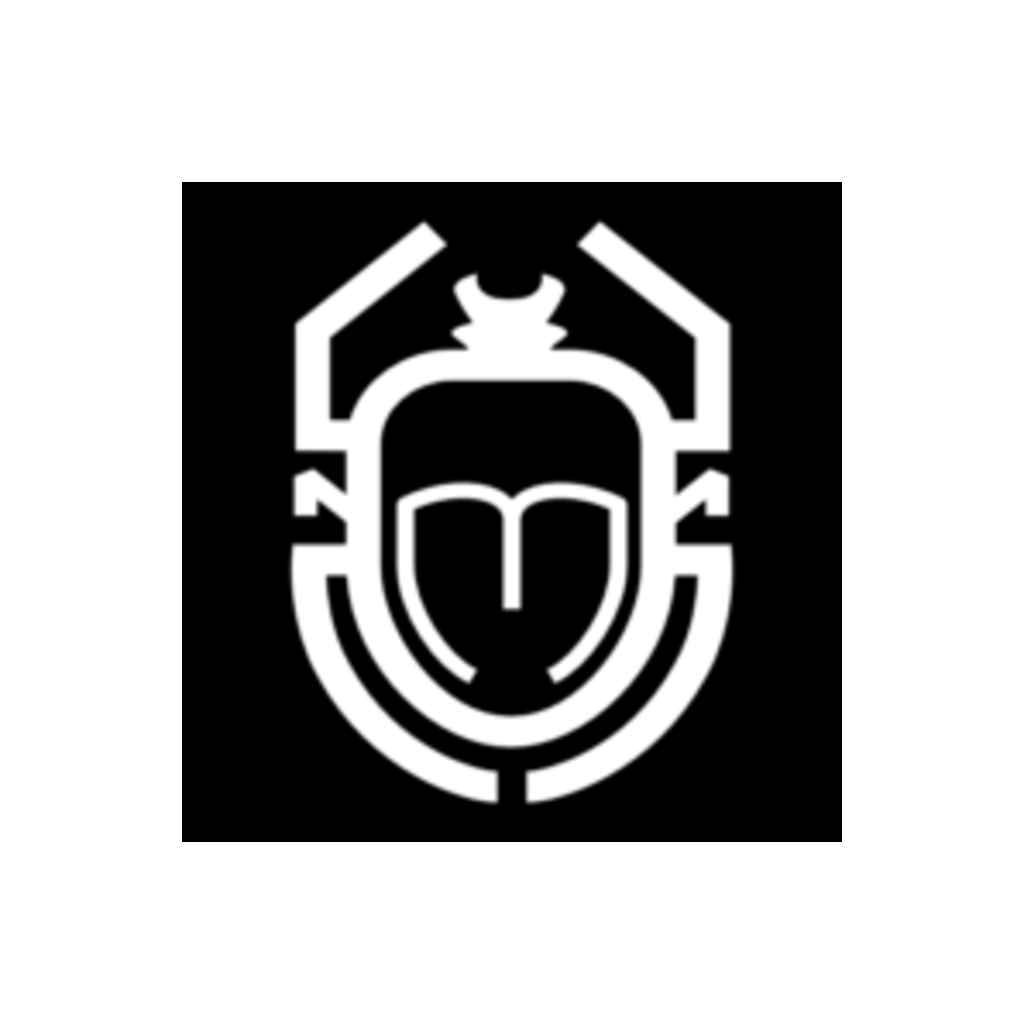
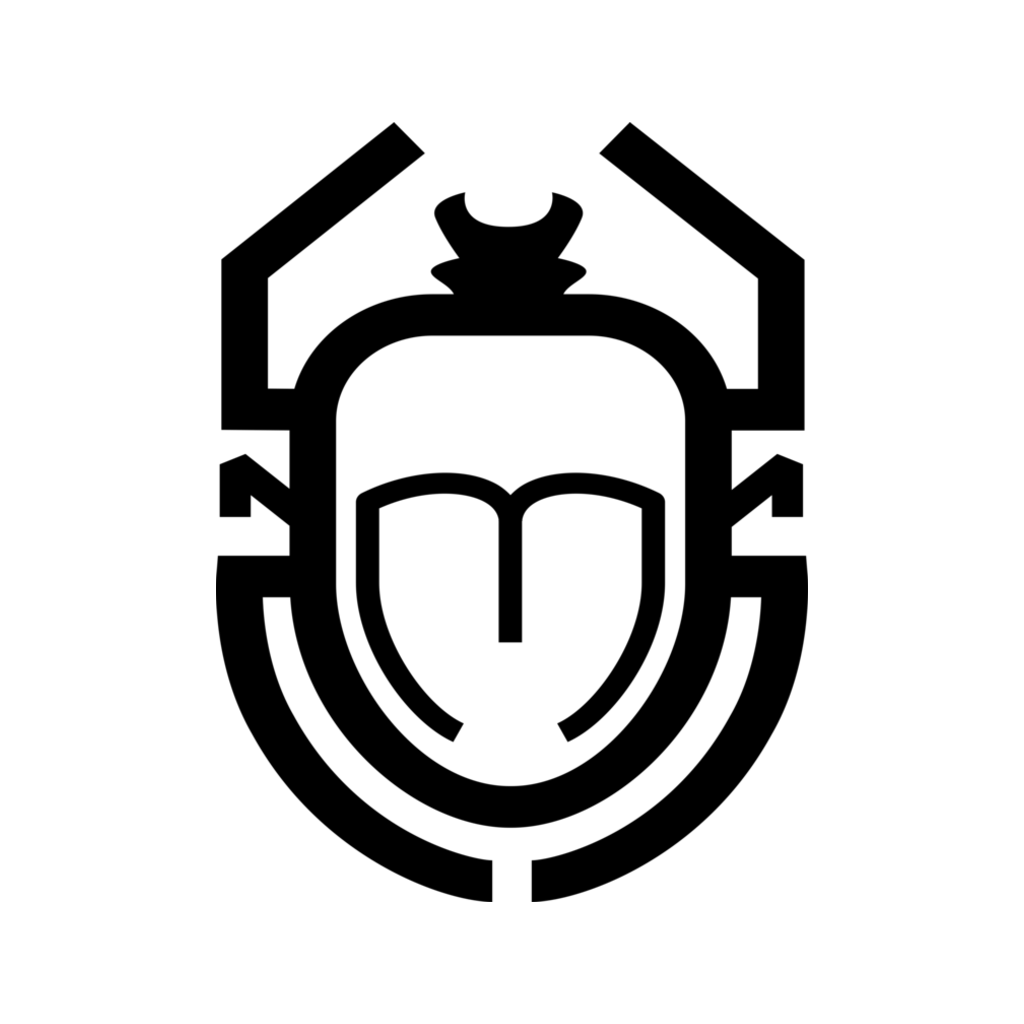
fix(mobile): polish staging app defaults

Changed region(s): [[0.1562, 0.125, 0.8438, 0.875]]

diff --git a/pkg/mobile/src/theme/ColorModeProvider.tsx b/pkg/mobile/src/theme/ColorModeProvider.tsx
@@ -3,15 +3,12 @@ import { useColorScheme } from 'nativewind';
 import { createContext, type ReactNode, useCallback, useEffect, useMemo, useState } from 'react';
 import { Platform } from 'react-native';
 
-export type ColorModePreference = 'dark' | 'light' | 'system';
+export type ColorModePreference = 'dark' | 'light';
 
-/** The concrete scheme after resolving `system` against the OS. */
 export type ResolvedColorScheme = 'dark' | 'light';
 
 export type ColorModeContextValue = {
-  /** The user's saved override; `system` follows the OS appearance. */
   preference: ColorModePreference;
-  /** The concrete scheme after resolving `system` against the OS. */
   resolved: ResolvedColorScheme;
   setPreference: (preference: ColorModePreference) => void;
 };
@@ -21,22 +18,18 @@ const STORAGE_KEY = 'jedidiah-color-mode';
 export const ColorModeContext = createContext<ColorModeContextValue | null>(null);
 
 function isPreference(value: string | null): value is ColorModePreference {
-  return value === 'light' || value === 'dark' || value === 'system';
+  return value === 'light' || value === 'dark';
 }
 
 /**
- * Mirrors web's three-way `ThemeProvider`: color mode follows the OS by default
- * via NativeWind's `useColorScheme`, with a light/dark/system override persisted
- * across launches in AsyncStorage (works on native and web; the preference is not
- * sensitive). The control surface lands in #518.
+ * Keeps the app on an explicit light/dark mode, defaulting to dark to match the
+ * web app. Legacy `system` values are treated as missing and migrate to dark.
  */
 export function ColorModeProvider({ children }: { children: ReactNode }) {
   const { colorScheme, setColorScheme } = useColorScheme();
-  const [preference, setPreferenceState] = useState<ColorModePreference>('system');
+  const [preference, setPreferenceState] = useState<ColorModePreference>('dark');
   const [hydrated, setHydrated] = useState(false);
 
-  // NativeWind already follows the OS before any setColorScheme call, so applying
-  // the preference is the only place that touches the scheme — no separate effect.
   const applyPreference = useCallback(
     (next: ColorModePreference) => {
       setPreferenceState(next);
@@ -45,17 +38,22 @@ export function ColorModeProvider({ children }: { children: ReactNode }) {
     [setColorScheme],
   );
 
-  // Restore the persisted override once on mount. Gate the tree on this read so a
-  // saved `dark` user never flashes the default scheme for a frame on cold start.
+  // Restore the persisted override once on mount. Gate the tree on this read so
+  // legacy or saved preferences never flash the wrong scheme on cold start.
   useEffect(() => {
     let active = true;
 
     void AsyncStorage.getItem(STORAGE_KEY)
       .then((stored) => {
-        if (active && isPreference(stored)) applyPreference(stored);
+        if (!active) return;
+
+        const next = isPreference(stored) ? stored : 'dark';
+        applyPreference(next);
+        if (stored && stored !== next) void AsyncStorage.setItem(STORAGE_KEY, next);
       })
-      // A failed read just means we keep following the OS — never let it block boot.
-      .catch(() => {})
+      .catch(() => {
+        if (active) applyPreference('dark');
+      })
       .finally(() => {
         if (active) setHydrated(true);
       });
@@ -65,12 +63,10 @@ export function ColorModeProvider({ children }: { children: ReactNode }) {
     };
   }, [applyPreference]);
 
-  const resolved: ResolvedColorScheme = colorScheme ?? 'light';
+  const resolved: ResolvedColorScheme = colorScheme ?? preference;
 
-  // The theme CSS variables live under `.dark:root`. On web NativeWind only
-  // toggles that class for an explicit `dark`/`light`, not for `system`, so the
-  // variables would never flip when following the OS. Mirror the resolved scheme
-  // onto <html> ourselves (native resolves variables at runtime, no DOM needed).
+  // The theme CSS variables live under `.dark:root`; mirror NativeWind's resolved
+  // scheme onto <html> for Expo web (native resolves variables at runtime).
   useEffect(() => {
     if (Platform.OS !== 'web') return;
     globalThis.document?.documentElement.classList.toggle('dark', resolved === 'dark');

diff --git a/pkg/mobile/src/lib/app-variant.ts b/pkg/mobile/src/lib/app-variant.ts
@@ -8,9 +8,7 @@
 /** The build flavours we can ship. `production` is defined but not built in this epic. */
 export type AppVariant = 'staging' | 'production';
 
-/** Android adaptive + 1024² icon for a variant. Both flavours share the owner-supplied master
- * artwork; the staging "badge" is the distinct adaptive `backgroundColor`, so no separately
- * designed icon is required. */
+/** Android adaptive + 1024² icon for a variant. */
 export interface IconConfig {
   /** 1024² app icon (iOS / web / fallback). */
   icon: string;
@@ -30,13 +28,12 @@ export interface AppVariantConfig {
   iconConfig: IconConfig;
 }
 
-// Shared master artwork. Staging reuses the same images; only the adaptive backgroundColor differs.
-const ICON = './assets/icon.png';
+const PRODUCTION_ICON = './assets/icon.png';
+const STAGING_ICON = './assets/icon-staging.png';
 const ADAPTIVE_FOREGROUND = './assets/adaptive-icon.png';
 
-// Brand yellow (global.css `--color-primary`) backs production; a distinct tint badges staging.
-const PRODUCTION_ICON_BACKGROUND = '#F8D300';
-const STAGING_ICON_BACKGROUND = '#FF6B00';
+// Launcher icons use the bright web/favicon brand yellow.
+const ICON_BACKGROUND = '#FFF000';
 
 const VARIANTS: Record<AppVariant, AppVariantConfig> = {
   staging: {
@@ -45,8 +42,8 @@ const VARIANTS: Record<AppVariant, AppVariantConfig> = {
     scheme: 'jedidiahopsstaging',
     displayName: 'Jedidiah Ops (Staging)',
     iconConfig: {
-      icon: ICON,
-      adaptiveIcon: { foregroundImage: ADAPTIVE_FOREGROUND, backgroundColor: STAGING_ICON_BACKGROUND },
+      icon: STAGING_ICON,
+      adaptiveIcon: { foregroundImage: ADAPTIVE_FOREGROUND, backgroundColor: ICON_BACKGROUND },
     },
   },
   production: {
@@ -55,8 +52,8 @@ const VARIANTS: Record<AppVariant, AppVariantConfig> = {
     scheme: 'jedidiahops',
     displayName: 'Jedidiah Ops',
     iconConfig: {
-      icon: ICON,
-      adaptiveIcon: { foregroundImage: ADAPTIVE_FOREGROUND, backgroundColor: PRODUCTION_ICON_BACKGROUND },
+      icon: PRODUCTION_ICON,
+      adaptiveIcon: { foregroundImage: ADAPTIVE_FOREGROUND, backgroundColor: ICON_BACKGROUND },
     },
   },
 };

diff --git a/pkg/mobile/src/lib/app-variant.test.ts b/pkg/mobile/src/lib/app-variant.test.ts
@@ -3,16 +3,16 @@ import { describe, expect, it } from 'vitest';
 import { resolveAppVariant } from './app-variant';
 
 describe('resolveAppVariant', () => {
-  it('resolves the staging variant to its package, scheme, name, and badged icon', () => {
+  it('resolves the staging variant to its package, scheme, name, and yellow Android icon', () => {
     const config = resolveAppVariant({ APP_VARIANT: 'staging' });
 
     expect(config.variant).toBe('staging');
     expect(config.androidPackage).toBe('za.co.jedidiahequipment.ops.staging');
     expect(config.scheme).toBe('jedidiahopsstaging');
     expect(config.displayName).toBe('Jedidiah Ops (Staging)');
-    expect(config.iconConfig.icon).toBe('./assets/icon.png');
+    expect(config.iconConfig.icon).toBe('./assets/icon-staging.png');
     expect(config.iconConfig.adaptiveIcon.foregroundImage).toBe('./assets/adaptive-icon.png');
-    expect(config.iconConfig.adaptiveIcon.backgroundColor).toBe('#FF6B00');
+    expect(config.iconConfig.adaptiveIcon.backgroundColor).toBe('#FFF000');
   });
 
   it('resolves the production variant to the clean package, scheme, name, and icon', () => {
@@ -24,7 +24,7 @@ describe('resolveAppVariant', () => {
     expect(config.displayName).toBe('Jedidiah Ops');
     expect(config.iconConfig.icon).toBe('./assets/icon.png');
     expect(config.iconConfig.adaptiveIcon.foregroundImage).toBe('./assets/adaptive-icon.png');
-    expect(config.iconConfig.adaptiveIcon.backgroundColor).toBe('#F8D300');
+    expect(config.iconConfig.adaptiveIcon.backgroundColor).toBe('#FFF000');
   });
 
   it('gives staging and production distinct package names so they install side by side', () => {

diff --git a/pkg/mobile/app/(protected)/_layout.tsx b/pkg/mobile/app/(protected)/_layout.tsx
@@ -1,8 +1,7 @@
 import { Redirect, Stack } from 'expo-router';
 import { useEffect, useState } from 'react';
-import { View } from 'react-native';
+import { ActivityIndicator, View } from 'react-native';
 import { SafeAreaView } from 'react-native-safe-area-context';
-import { Text } from '@/components/ui/text';
 import { useSession } from '@/lib/auth';
 import { AuthSessionProvider } from '@/lib/auth-session';
 import { useIsOffline } from '@/lib/connectivity';
@@ -51,8 +50,8 @@ export default function ProtectedLayout() {
   if (isPending || reconnecting || (!session && isOffline)) {
     return (
       <SafeAreaView className="flex-1 bg-background">
-        <View className="flex-1 justify-center px-7 py-10">
-          <Text className="text-base leading-6 text-muted-foreground">Checking session</Text>
+        <View className="flex-1 items-center justify-center px-7 py-10">
+          <ActivityIndicator accessibilityLabel="Checking session" className="text-primary" size="large" />
         </View>
       </SafeAreaView>
     );

diff --git a/pkg/mobile/src/components/ProfileMenu.tsx b/pkg/mobile/src/components/ProfileMenu.tsx
@@ -10,9 +10,8 @@ import type { ColorModePreference } from '@/theme/ColorModeProvider';
 import { useColorMode } from '@/theme/use-color-mode';
 
 const THEME_OPTIONS: { label: string; value: ColorModePreference }[] = [
-  { label: 'Light', value: 'light' },
   { label: 'Dark', value: 'dark' },
-  { label: 'System', value: 'system' },
+  { label: 'Light', value: 'light' },
 ];
 
 type ProfileUser = {
@@ -23,7 +22,7 @@ type ProfileUser = {
 
 /**
  * Overflow menu shared across screens: a dropdown anchored top-right with the
- * light/dark/system theme toggle and Log out. Rendered in a Modal so it floats
+ * light/dark theme toggle and Log out. Rendered in a Modal so it floats
  * above scrolling content on every platform; tapping the backdrop dismisses it.
  */
 export function ProfileMenu({ user, onClose }: { user: ProfileUser; onClose: () => void }) {

diff --git a/pkg/mobile/app/_layout.tsx b/pkg/mobile/app/_layout.tsx
@@ -36,8 +36,7 @@ export default function RootLayout() {
               <Stack screenOptions={{ headerShown: false }} />
               {/* Single offline gate: covers the whole app while offline, so no screen checks connectivity. */}
               <OfflineScreen />
-              {/* `auto` tracks the OS bar style; the #518 override hook can drive this later. */}
-              <StatusBar style="auto" />
+              <StatusBar style="light" />
             </ApiProvider>
           </ConnectivityProvider>
         </GluestackUIProvider>

diff --git a/pkg/mobile/src/theme/use-color-mode.ts b/pkg/mobile/src/theme/use-color-mode.ts
@@ -2,8 +2,7 @@ import { useContext } from 'react';
 
 import { ColorModeContext } from './ColorModeProvider';
 
-// Read/override the light/dark/system preference. The control surface that
-// consumes this (a settings toggle) lands in #518.
+// Read/override the explicit light/dark preference.
 export function useColorMode() {
   const context = useContext(ColorModeContext);
 

diff --git a/pkg/mobile/app.config.ts b/pkg/mobile/app.config.ts
@@ -24,7 +24,7 @@ export default ({ config }: ConfigContext): AppConfig => {
     // (`cli.appVersionSource: remote` + per-profile `autoIncrement` in eas.json).
     version: '1.0.0',
     orientation: 'portrait',
-    userInterfaceStyle: 'automatic',
+    userInterfaceStyle: 'dark',
     newArchEnabled: true,
     // Fingerprint runtime version: EAS Update only delivers an OTA bundle to a binary whose native
     // fingerprint matches, so JS-only fixes never land on an incompatible build. The update channel

diff --git a/pkg/mobile/README.md b/pkg/mobile/README.md
@@ -11,7 +11,7 @@ Expo managed React Native app for Jedidiah Ops.
 - `pnpm --filter @pkg/mobile typecheck` runs TypeScript for the mobile package.
 - `pnpm --filter @pkg/mobile test` runs mobile unit tests.
 - `pnpm --filter @pkg/mobile eas-build-staging` starts the Android EAS staging build.
-- `pnpm --filter @pkg/mobile eas-submit-staging` submits the latest Android staging build.
+- `pnpm --filter @pkg/mobile eas-submit-staging` builds and submits that Android EAS staging build.
 
 ## Release
 